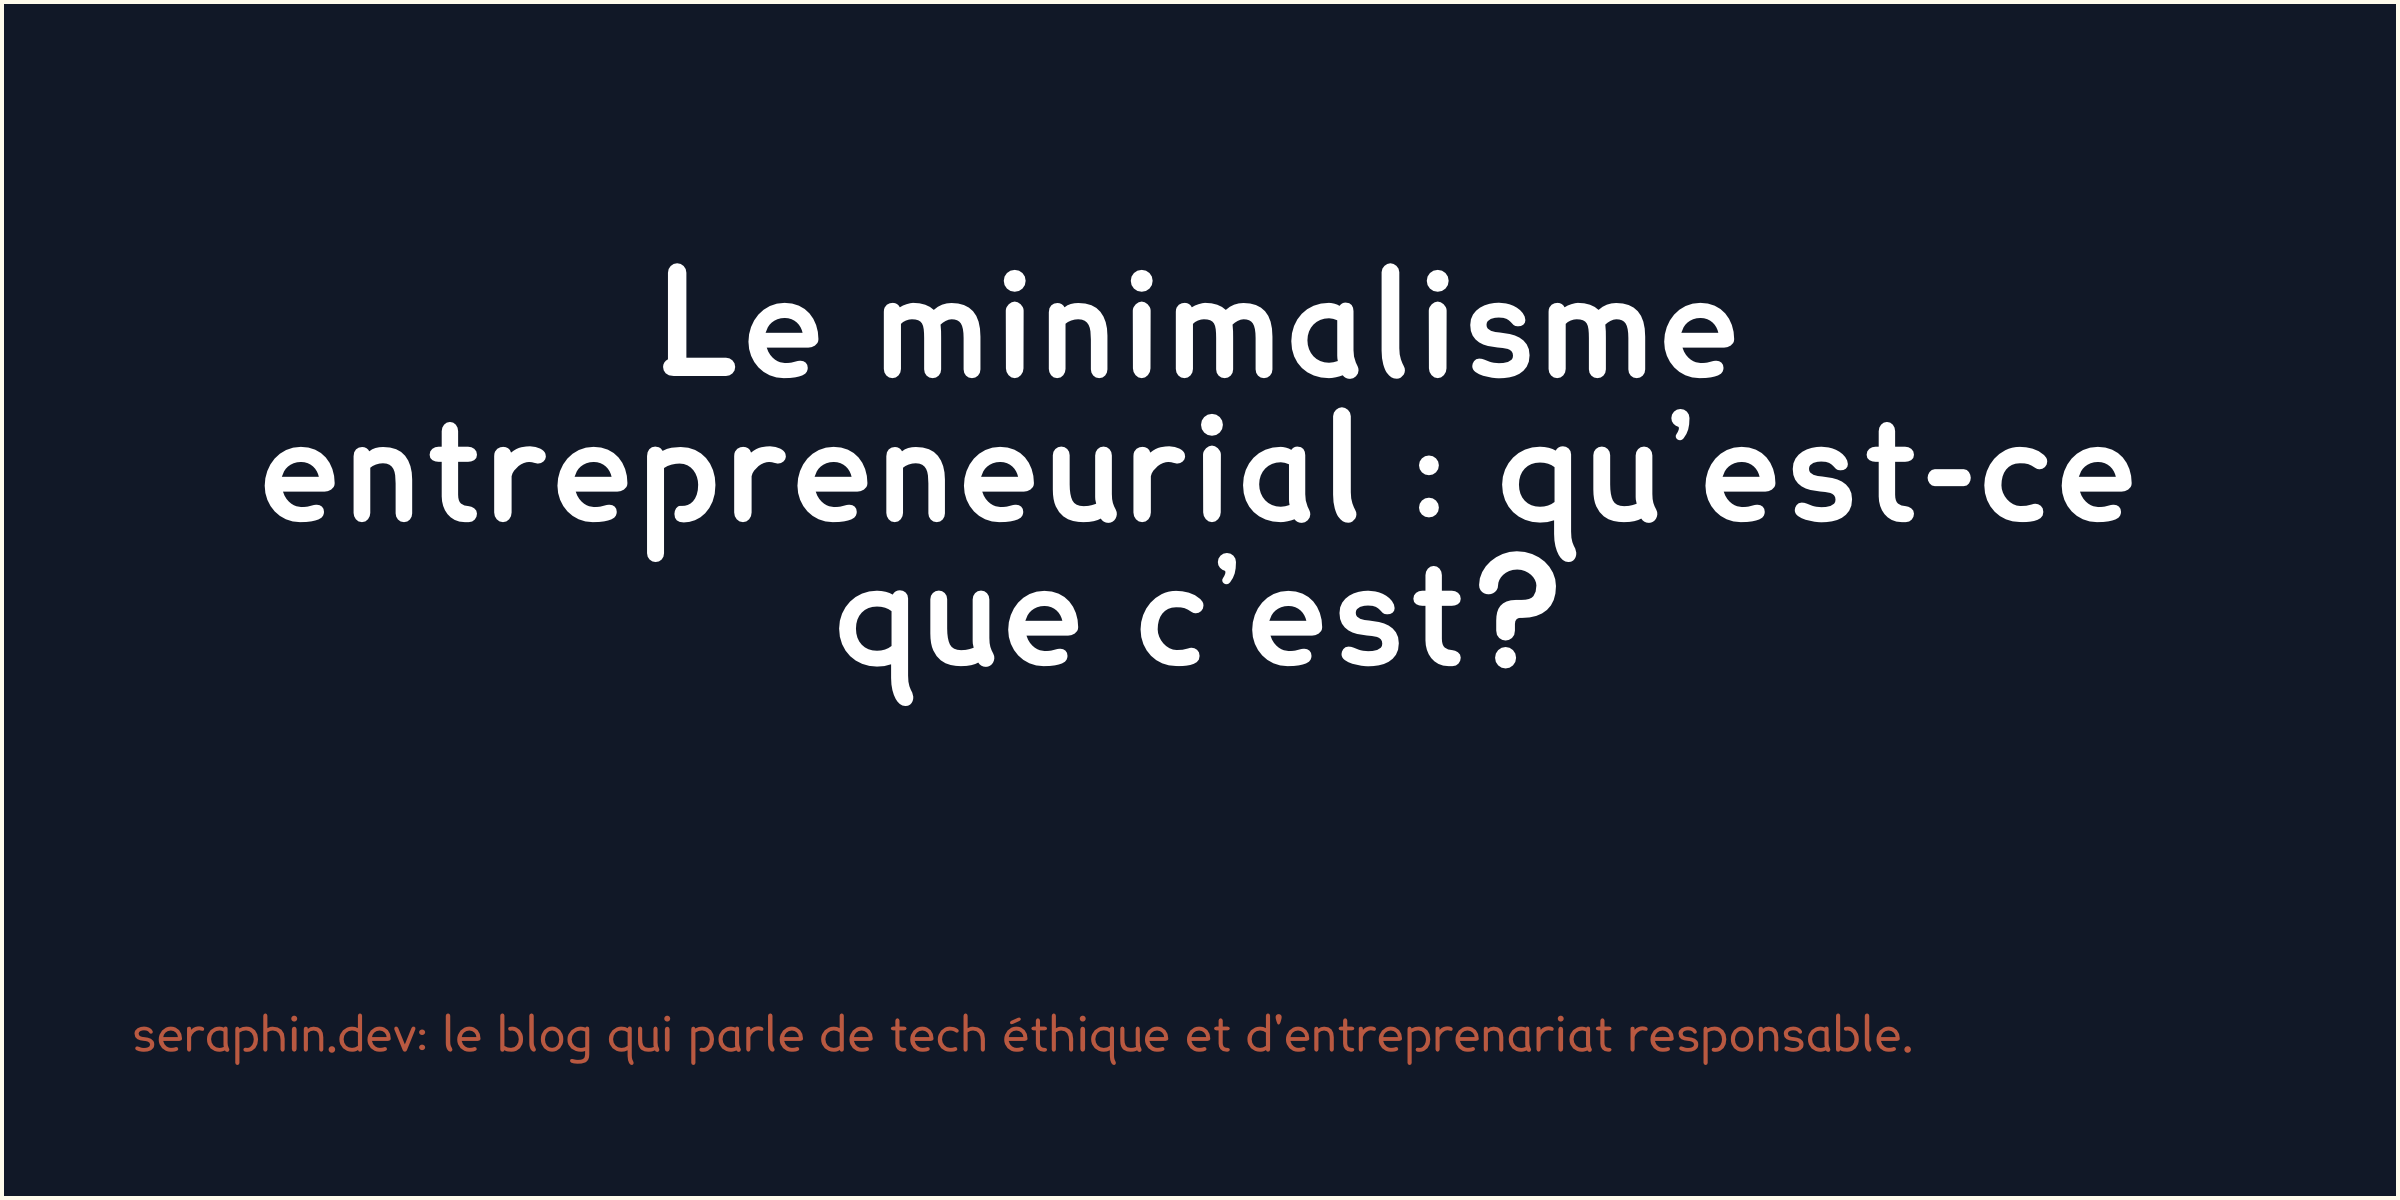
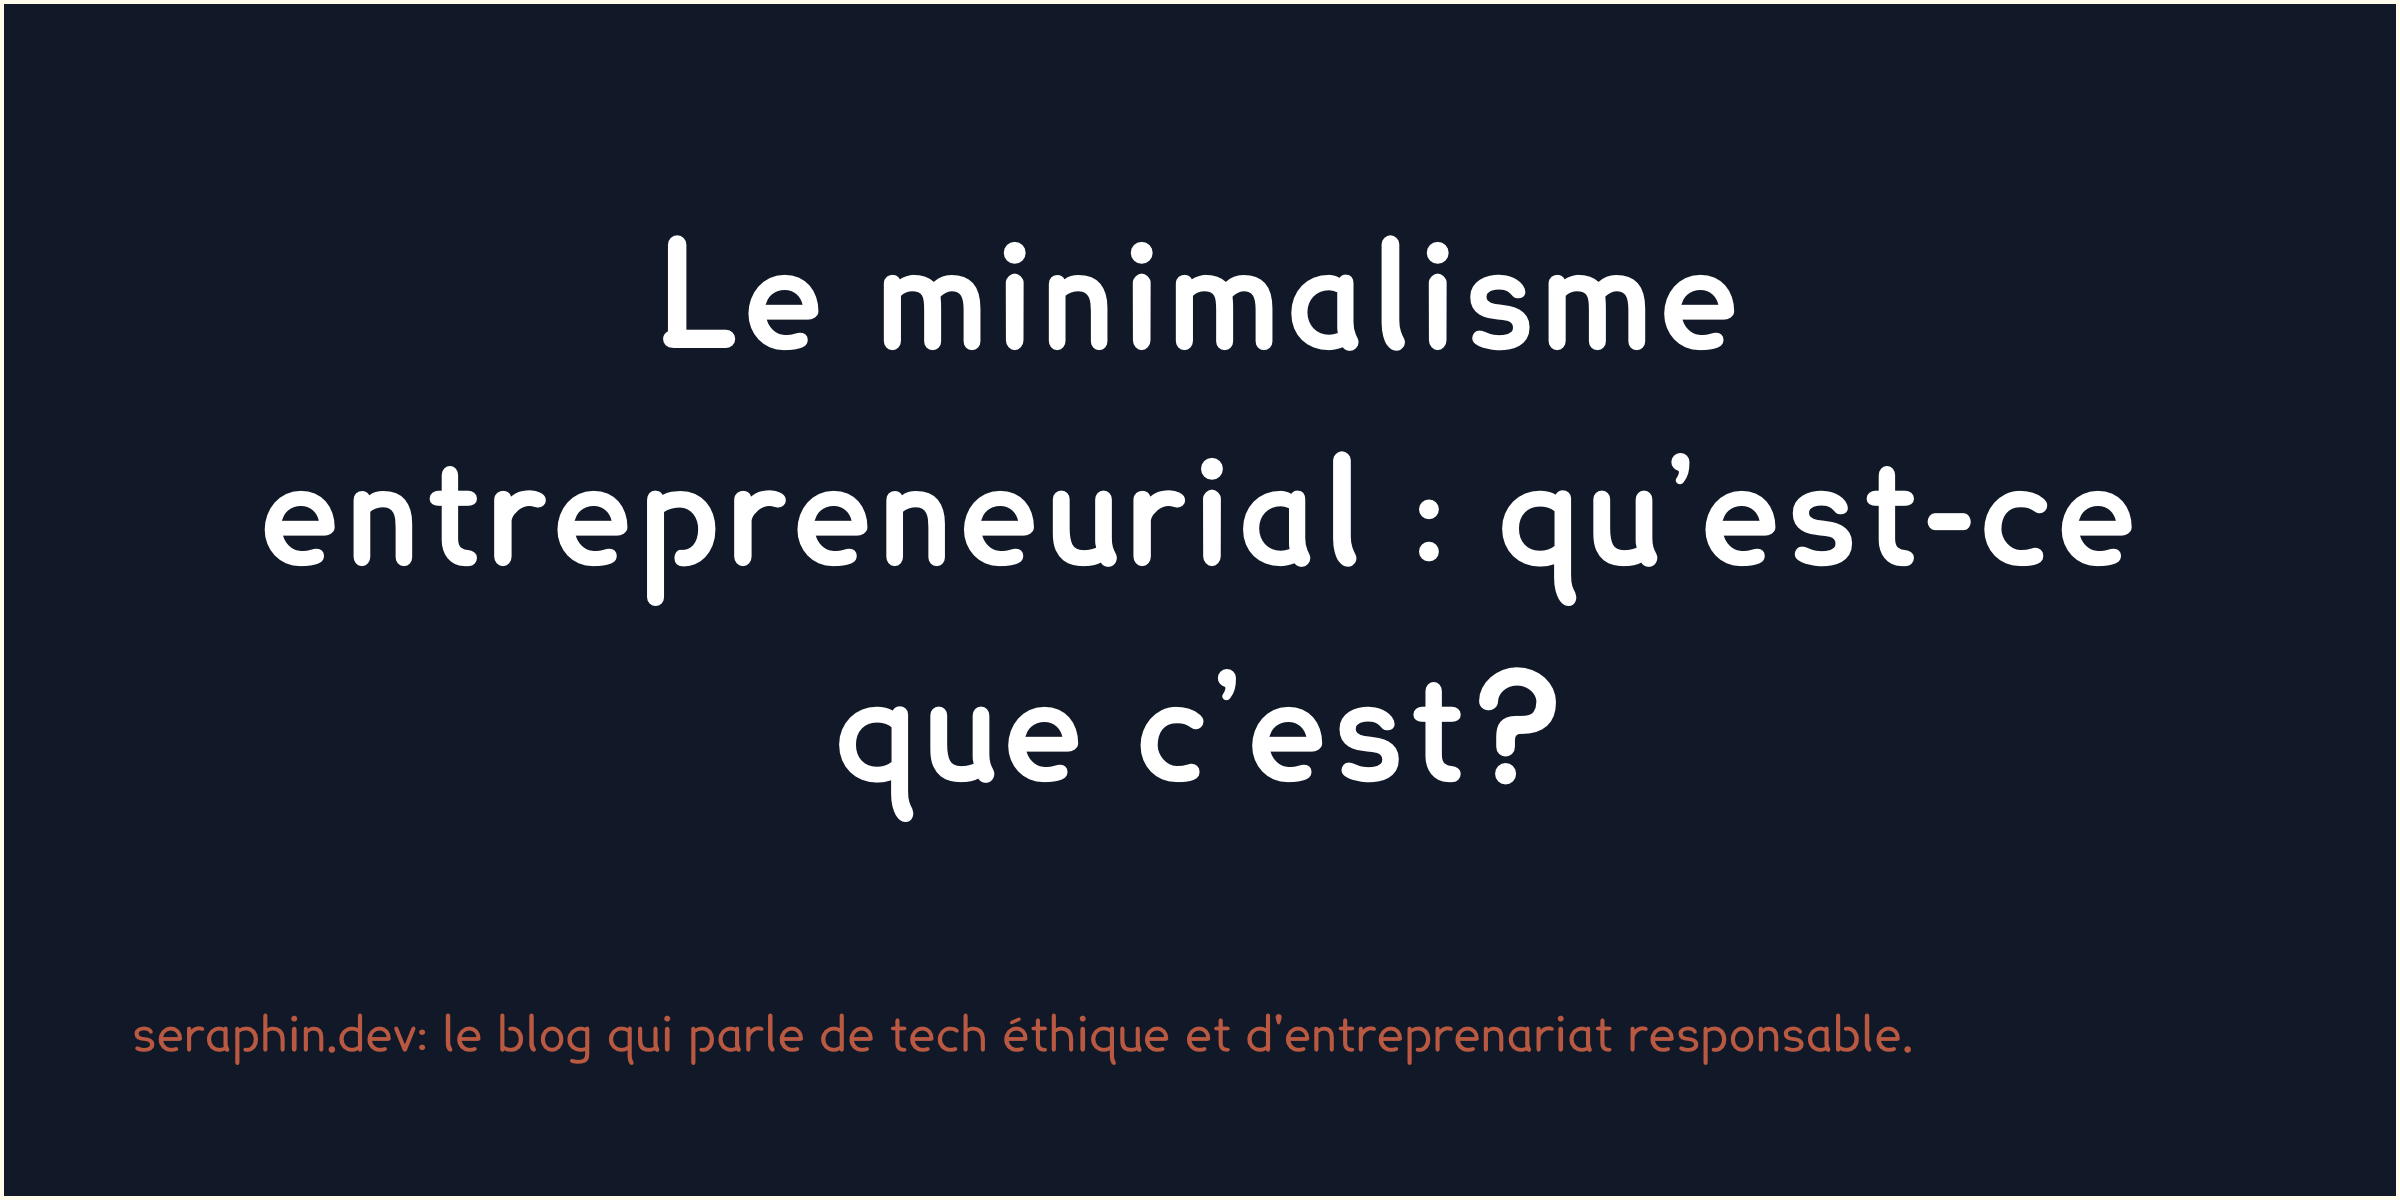
SEO - Set default card

Changed region(s): [[0.0938, 0.185, 0.9062, 0.6783]]

diff --git a/pages/_imageBuilder.js b/pages/_imageBuilder.js
@@ -13,12 +13,16 @@ export default function _imageBuilder() {
          px-16
          "
       >
-        <h1 className="mt-16 text-center text-7xl">
+        <h1 className="mt-8 text-center text-7xl leading-normal">
           Le minimalisme entrepreneurial : qu’est-ce que c’est?
         </h1>
         <p className="mt-auto text-2xl text-secondary-500">
           seraphin.dev: le blog qui parle de tech éthique et d'entreprenariat responsable.
         </p>
+        {/*<h1 className="mt-16 text-center text-7xl">seraphin.dev</h1>*/}
+        {/*<h1 className="mt-16 text-center text-5xl leading-relaxed text-secondary-500">*/}
+        {/*  Le blog qui parle de tech éthique et d'entreprenariat responsable.*/}
+        {/*</h1>*/}
       </div>
     </>
   )

diff --git a/data/siteMetadata.js b/data/siteMetadata.js
@@ -9,7 +9,7 @@ const siteMetadata = {
   siteRepo: 'https://github.com/svandegar/seraphin',
   siteLogo: '/static/images/logo.png',
   image: '/static/images/seraphin.jpg',
-  socialBanner: '/static/images/twitter-card.png',
+  socialBanner: '/static/images/default-card.png',
   email: 'seraphin@aynils.ca',
   github: 'https://github.com/svandegar',
   twitter: 'https://twitter.com/svandegar',
